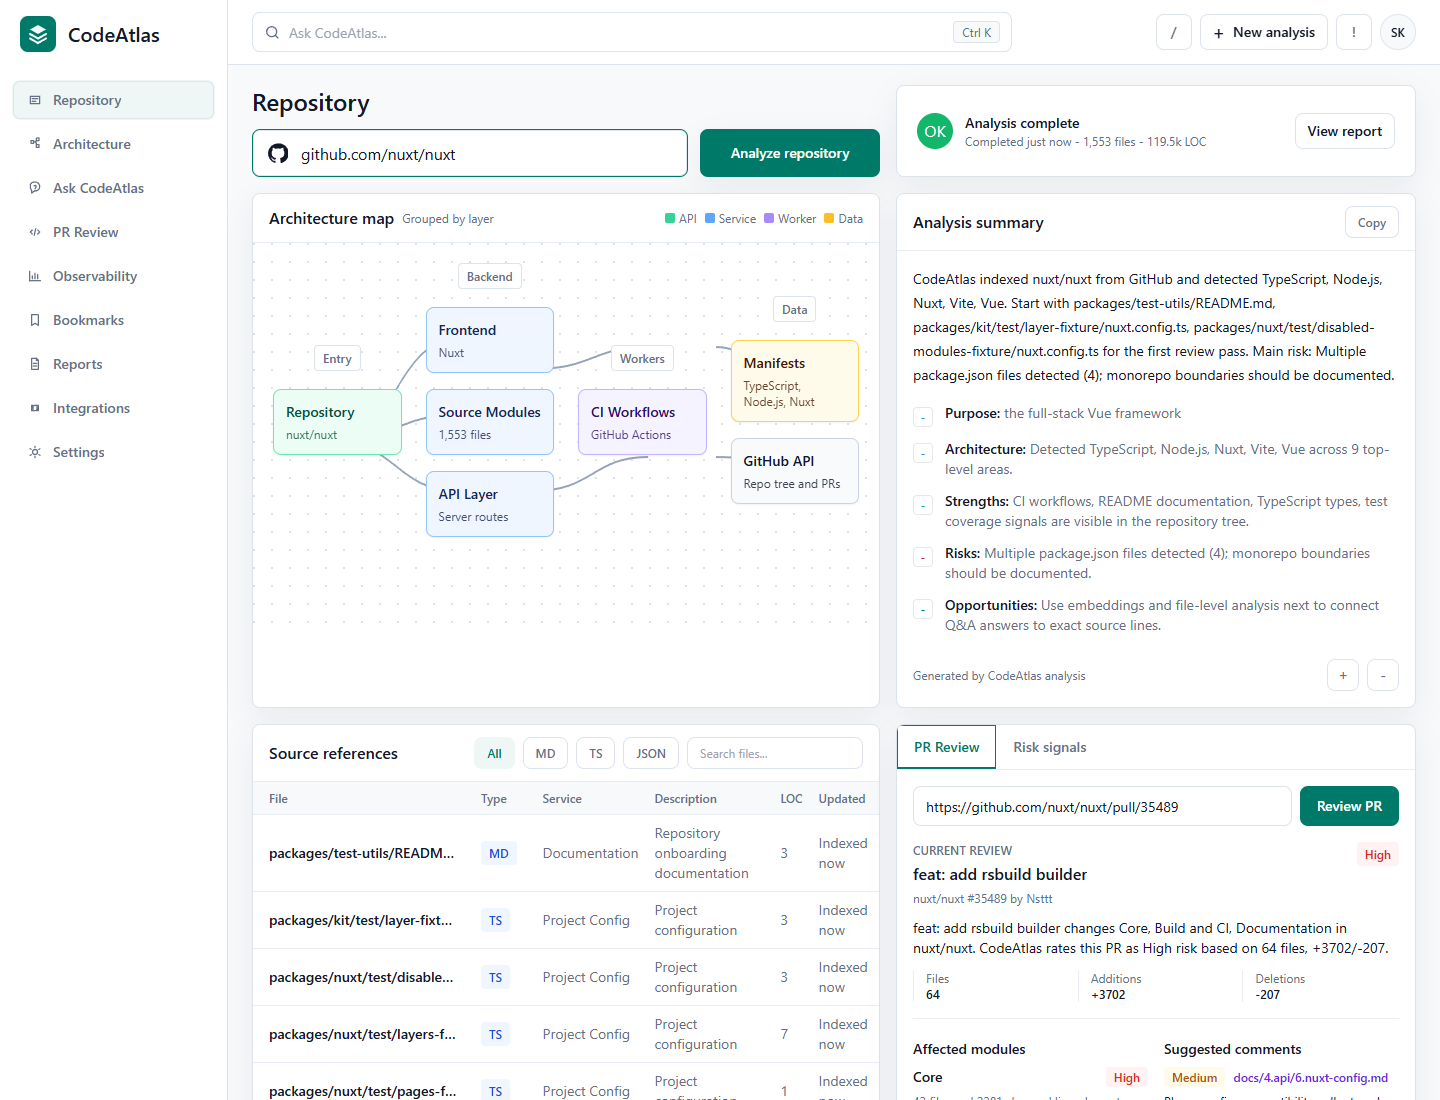
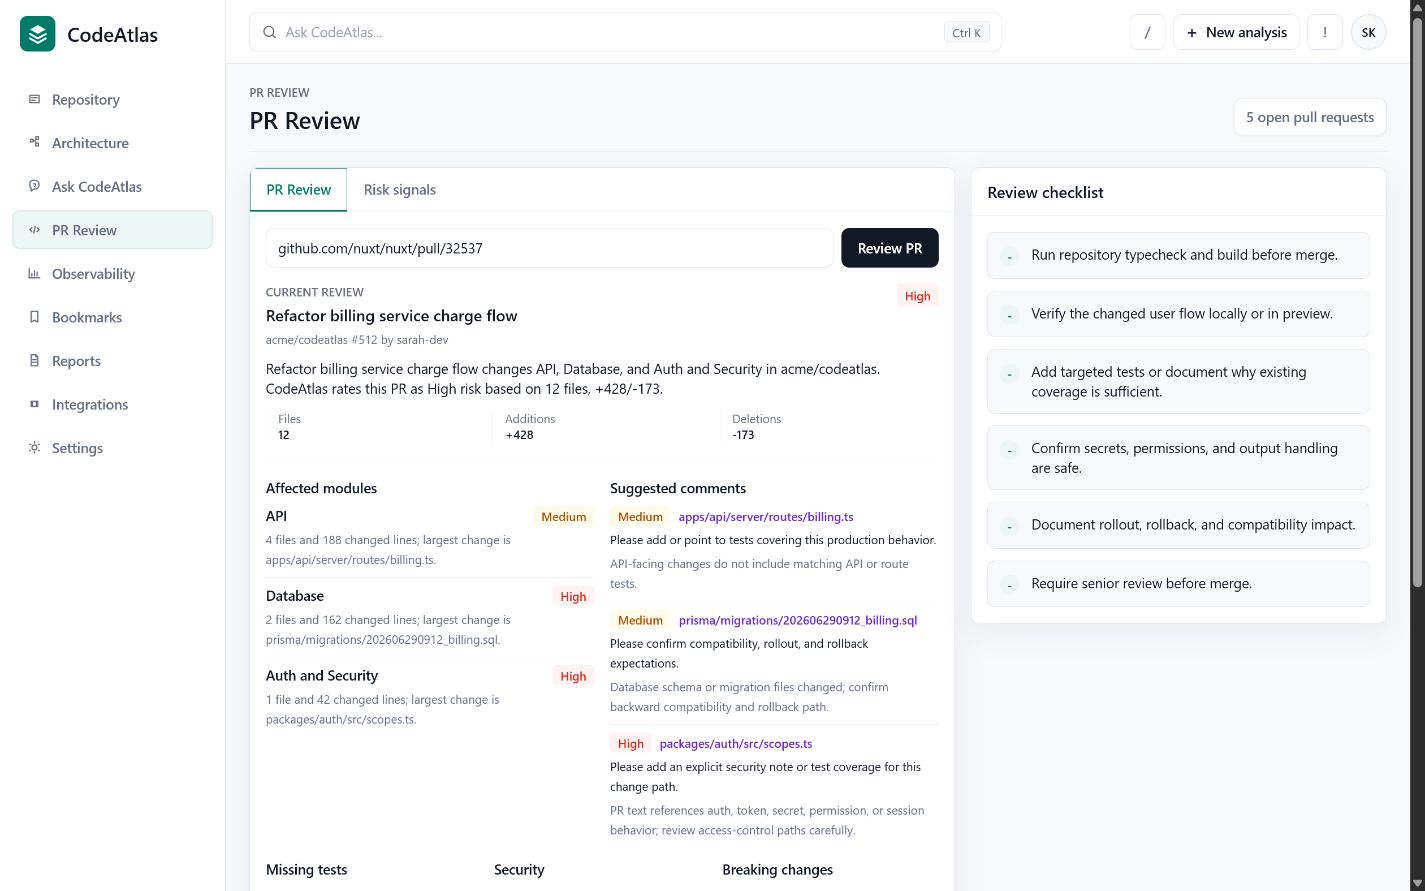
Refresh README screenshots

diff --git a/README.md b/README.md
@@ -18,7 +18,7 @@ Large codebases are hard to enter quickly. CodeAtlas gives a developer a first w
 - which risks are visible from repository metadata;
 - what a pull request changes and what deserves review attention.
 
-The current MVP uses deterministic analysis over GitHub API data. The next planned layer is real LLM integration for richer summaries, Q&A, and PR comments.
+The current MVP uses deterministic analysis over GitHub API data as the reliable baseline and can enhance repository summaries, Q&A, and PR review copy with Google Gemini when a server-side API key is configured.
 
 ## Features
 
@@ -29,6 +29,8 @@ The current MVP uses deterministic analysis over GitHub API data. The next plann
 - PR review mode with affected modules, missing tests, security concerns, breaking-change signals, and suggested comments.
 - Risk signals for missing tests, missing CI, truncated trees, env-like files, and install lifecycle scripts.
 - Observability strip for latency, error rate, requests, token usage, cost, and jobs.
+- Section-based dashboard navigation for repository, architecture, Q&A, PR review, observability, bookmarks, reports, integrations, and settings.
+- Optional Gemini-powered repository summaries, Q&A, and PR review refinement through Nuxt server routes.
 - MCP stdio server scaffold for AI coding tools.
 - Composite GitHub Action scaffold for PR review workflows.
 - CI and Docker packaging.
@@ -43,9 +45,17 @@ The current MVP uses deterministic analysis over GitHub API data. The next plann
 
 ![Knowledge and references](docs/screenshots/codeatlas-knowledge.png)
 
+### Architecture Map
+
+![Architecture map](docs/screenshots/codeatlas-architecture.png)
+
 ### PR Review
 
 ![PR review](docs/screenshots/codeatlas-pr-review.png)
+
+### Workspace Settings
+
+![Workspace settings](docs/screenshots/codeatlas-settings.png)
 
 ## Tech Stack
 
@@ -56,6 +66,7 @@ The current MVP uses deterministic analysis over GitHub API data. The next plann
 - Node built-in test runner
 - npm workspaces
 - GitHub REST API
+- Google Gemini API
 - Docker
 
 ## Project Structure